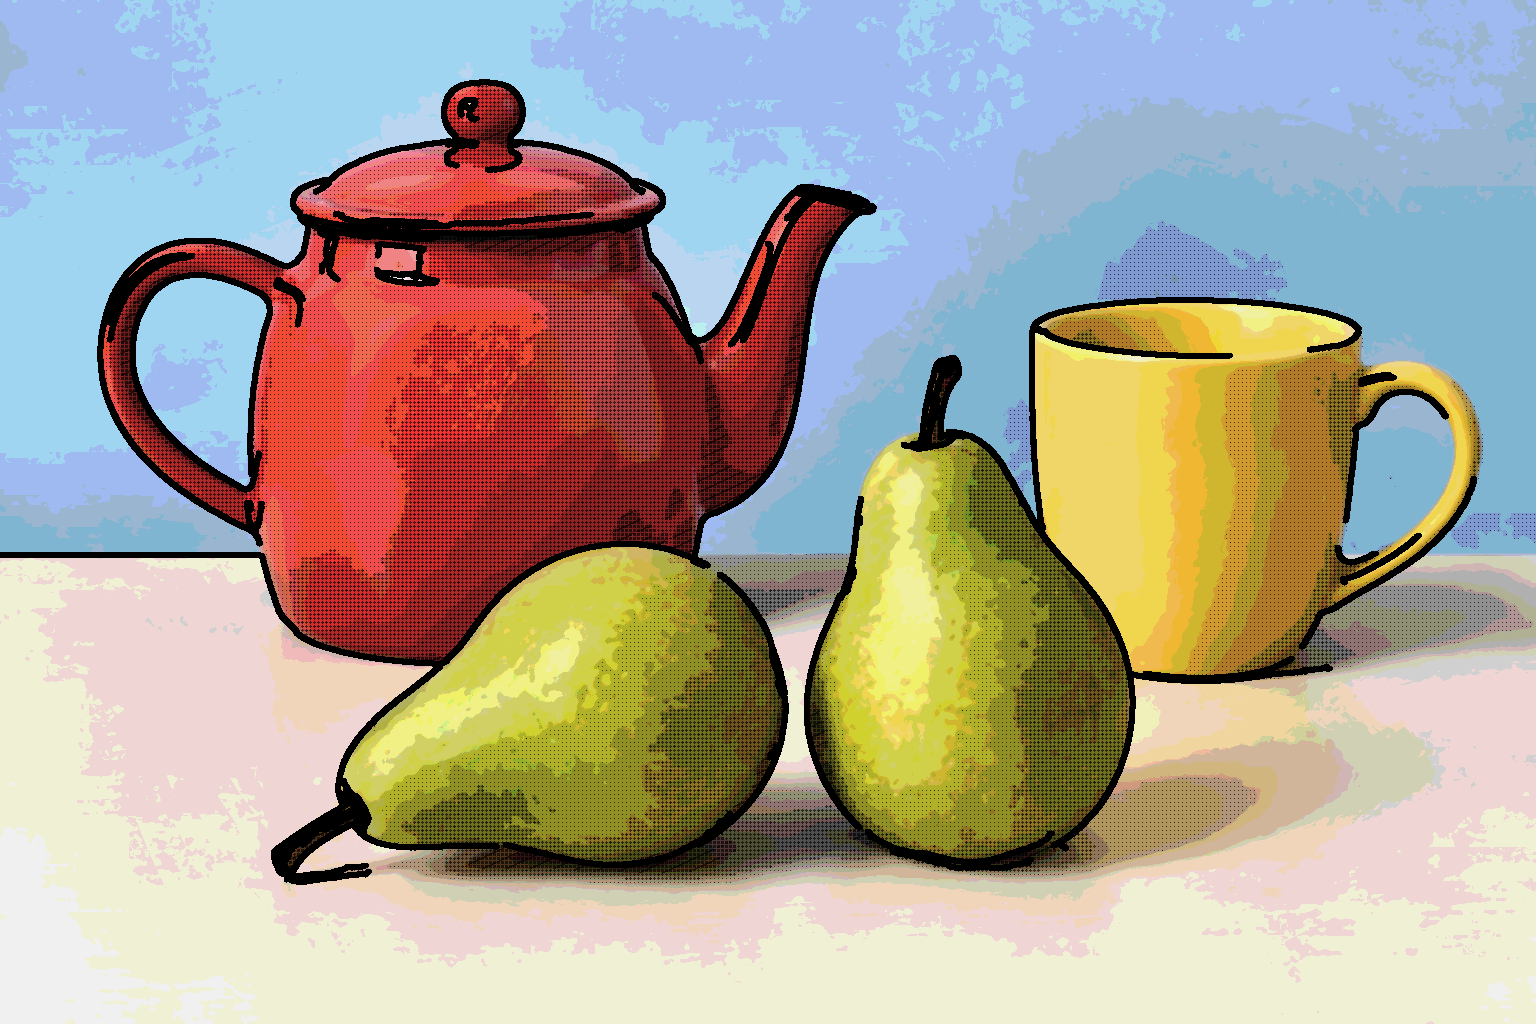
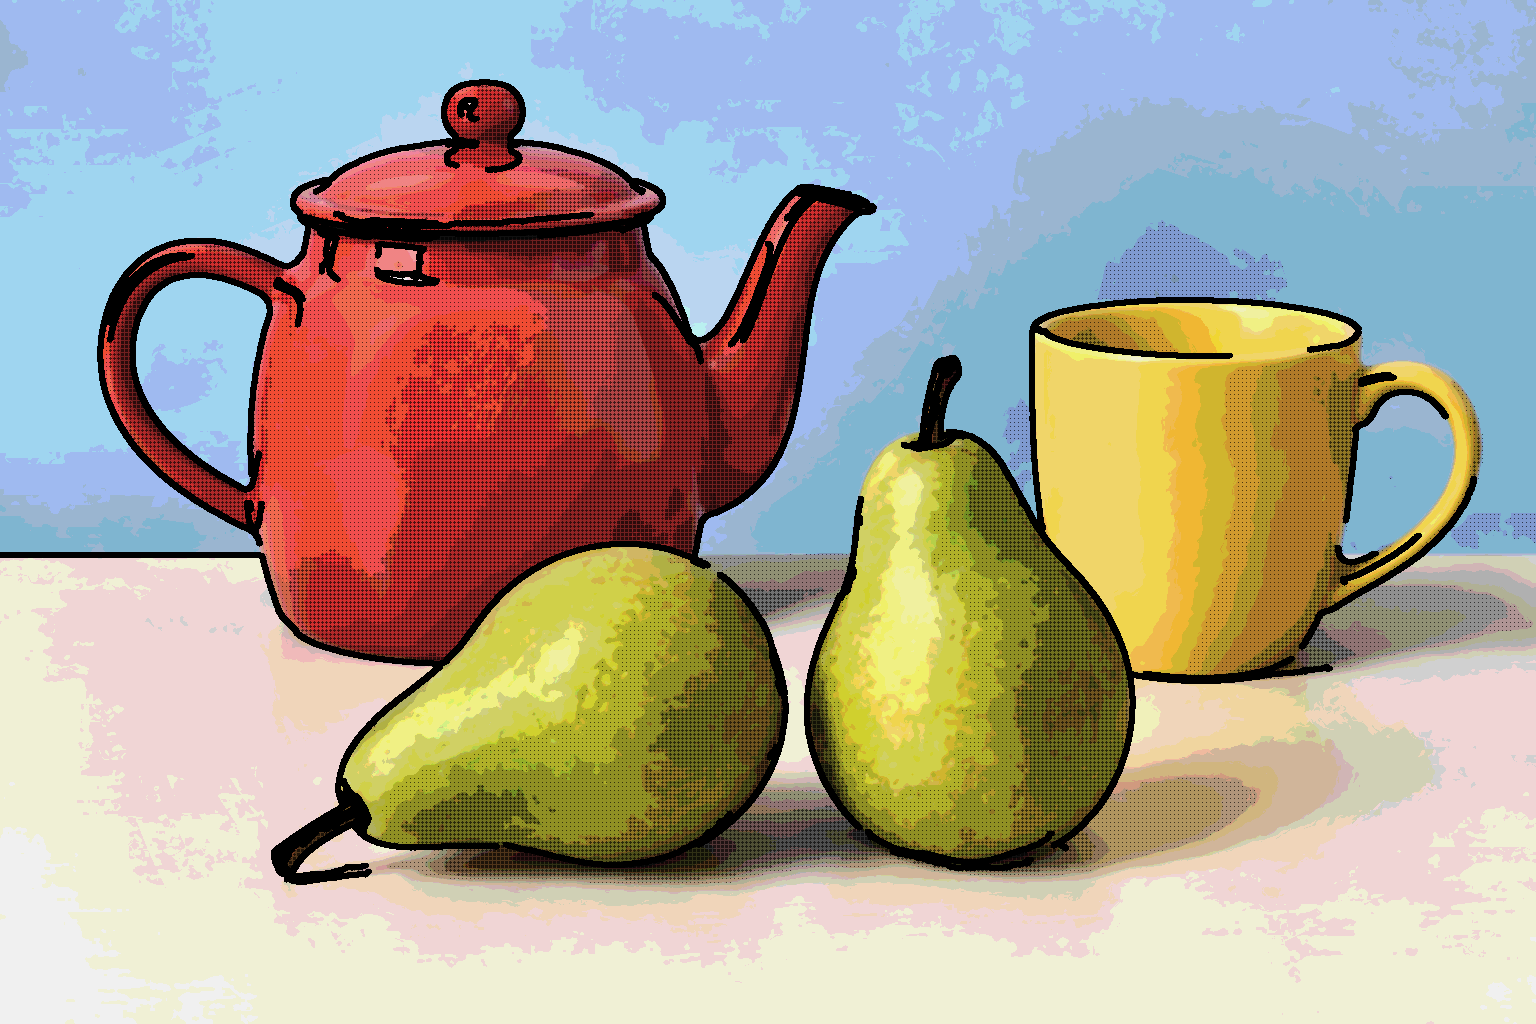
removed hatching, refactored halftone

diff --git a/Lab2/comic-filter-v2.py b/Lab2/comic-filter-v2.py
@@ -2,46 +2,40 @@ import cv2
 import numpy as np
 import matplotlib.pyplot as plt
 
-
 def add_halftone_effect(img, cell_size=4, dot_intensity=0.368):
     h, w, _ = img.shape
-    gray = cv2.cvtColor(img, cv2.COLOR_BGR2GRAY).astype(np.float32)
 
-    gh = max(1, h // cell_size)
-    gw = max(1, w // cell_size)
-    small = cv2.resize(gray, (gw, gh), interpolation=cv2.INTER_AREA)
-    cell_mean = cv2.resize(small, (w, h), interpolation=cv2.INTER_NEAREST)
-
-    darkness = 1.0 - (cell_mean / 255.0)
-    target_radius = (cell_size / 2.0) * darkness * 0.95
-
-    y_idx, x_idx = np.indices((h, w), dtype=np.float32)
-    cy = (np.floor(y_idx / cell_size) + 0.5) * cell_size
-    cx = (np.floor(x_idx / cell_size) + 0.5) * cell_size
-    dist = np.sqrt((x_idx - cx) ** 2 + (y_idx - cy) ** 2)
-
-    dot_mask = np.where((dist <= target_radius) & (target_radius >= 0.7), dot_intensity, 1.0).astype(np.float32)
-
-    result = img.astype(np.float32) * dot_mask[:, :, np.newaxis]
-    return np.clip(result, 0, 255).astype(np.uint8)
-
-
-def add_hatching_effect(img, spacing=10, angle=65, shadow_thresh=59, line_intensity=0.397):
-    h, w, _ = img.shape
     gray = cv2.cvtColor(img, cv2.COLOR_BGR2GRAY)
 
-    y_idx, x_idx = np.indices((h, w), dtype=np.float32)
-    theta = np.deg2rad(angle)
-    rotated = x_idx * np.cos(theta) + y_idx * np.sin(theta)
-    line_pattern = (np.mod(rotated, spacing) < 1.5)
-
-    shadow_mask = gray < shadow_thresh
-    hatching_mask = line_pattern & shadow_mask
-
     result = img.copy()
-    result[hatching_mask] = (result[hatching_mask] * line_intensity).astype(np.uint8)
-    return result
 
+    for y in range(0, h, cell_size):
+        for x in range(0, w, cell_size):
+
+            cell = gray[y:y+cell_size, x:x+cell_size]
+
+            mean = np.mean(cell)
+            darkness = 1.0 - mean / 255.0
+
+            radius = (cell_size / 2.0) * darkness * 0.95
+
+            if radius >= 0.7:
+                cx = x + cell_size // 2
+                cy = y + cell_size // 2
+
+                for dy in range(-cell_size // 2, cell_size // 2 + 1):
+                    for dx in range(-cell_size // 2, cell_size // 2 + 1):
+
+                        px = cx + dx
+                        py = cy + dy
+
+                        if 0 <= px < w and 0 <= py < h:
+                            distance = np.sqrt(dx**2 + dy**2)
+
+                            if distance <= radius:
+                                result[py, px] = result[py, px] * dot_intensity
+
+    return result
 
 def comic_filter(img):
     imgGaussian = cv2.GaussianBlur(img, (3, 3), 0)
@@ -56,17 +50,20 @@ def comic_filter(img):
 
     # N1 contrast
     imgLAB = cv2.cvtColor(imgMedian, cv2.COLOR_BGR2LAB)
-    l_channel, a_channel, b_channel = cv2.split(imgLAB)
+    l_channel = imgLAB[:, :, 0]
     clahe = cv2.createCLAHE(clipLimit=1.21, tileGridSize=(6, 6))
     l_enhanced = clahe.apply(l_channel)
-    imgContrast = cv2.cvtColor(cv2.merge((l_enhanced, a_channel, b_channel)), cv2.COLOR_LAB2BGR)
+    imgLAB[:, :, 0] = l_enhanced
+    imgContrast = cv2.cvtColor(imgLAB, cv2.COLOR_LAB2BGR)
 
     imgQuantized = ((imgContrast.astype(np.int16) // 32) * 32 + 16).astype(np.uint8)
 
     # N2 saturation
     imgHSV = cv2.cvtColor(imgQuantized, cv2.COLOR_BGR2HSV).astype(np.float32)
-    imgHSV[:, :, 1] = np.clip(imgHSV[:, :, 1] * 0.844, 0, 255)
-    # imgHSV[:, :, 1] = np.clip(imgHSV[:, :, 1] * 0.78, 0, 255)
+    s_channel = imgHSV[:, :, 1]
+    s_channel = s_channel * 0.844
+    s_channel = np.clip(s_channel, 0, 255)
+    imgHSV[:, :, 1] = s_channel
     imgSaturated = cv2.cvtColor(imgHSV.astype(np.uint8), cv2.COLOR_HSV2BGR)
 
     # N3 halftone
@@ -75,10 +72,7 @@ def comic_filter(img):
     imgOutlined = imgHalftone.copy()
     imgOutlined[imgEdgesThick > 0] = (0, 0, 0)
 
-    # N4 hatching
-    imgFinal = add_hatching_effect(imgOutlined, spacing=10, angle=65, shadow_thresh=59, line_intensity=0.397)
-
-    return imgFinal
+    return imgOutlined
 
 
 if __name__ == '__main__':
